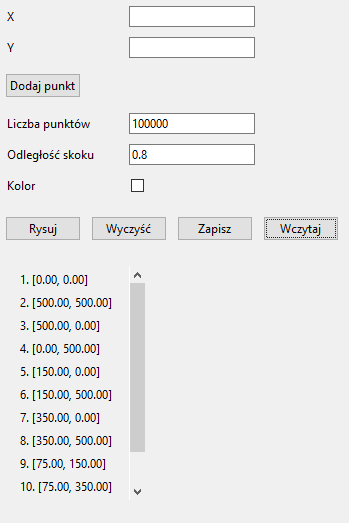
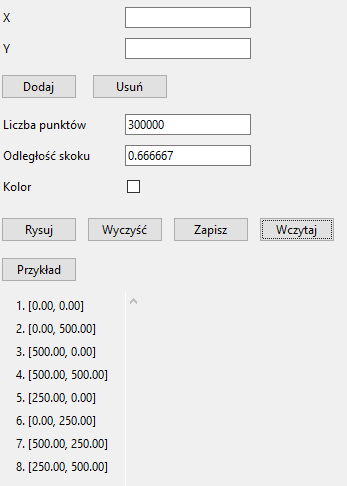
Dodano opcję wczytywania przykłądowych danych

diff --git a/frames/TutorialFrame.py b/frames/TutorialFrame.py
@@ -10,17 +10,9 @@ class TutorialFrame(tk.Frame):
     def __init__(self, parent):
         tk.Frame.__init__(self, parent, width = 1366, height = 768)
 
-        # self.__current_frame : ttk.Frame = None
 
         widgets_frame = ttk.Frame(self)
         buttons_frame = ttk.Frame(widgets_frame)
-        # introduction_frame = ttk.Frame(self)
-        # chaos_game_frame = ttk.Frame(self)
-        # rectangle_frame = ttk.Frame(self)
-        # lsystem_frame = ttk.Frame(self)
-        # ifs_frame = ttk.Frame(self)
-        # mandelbrot_frame = ttk.Frame(self)
-        # julia_frame = ttk.Frame(self)
 
         canvas_frame = ttk.Frame(self)
 
@@ -56,26 +48,13 @@ class TutorialFrame(tk.Frame):
         canvas_frame.pack(side = tk.LEFT, padx = 15)
         self.__canvas.pack(side = tk.LEFT)
 
-        # introduction_frame.pack(side = tk.TOP, anchor = tk.W, padx = 20)
-        # ttk.Label(introduction_frame, text = "Wprowadzenie", font = ('Arial', 30)).pack(pady = 15)
-        # ttk.Label(introduction_frame, text = "Objaśnienie czym jest fraktal")
-
-    # def __packFrame(self, new_frame : ttk.Frame):
-
-    #     if(self.__current_frame != None):
-    #         self.__current_frame.pack_forget()
-    #     elif(self.__current_frame is new_frame):
-    #         return
-    #     new_frame.pack()
-    #     self.__current_frame = new_frame
-
     def __showCanvas(self, frac_name : str):
         self.__canvas.delete('all')
         match(frac_name):
             case 'chaos':
                 self.img = Image.open(resource_path("images/chaos_game.png"))
                 self.img = ImageTk.PhotoImage(self.img)
-                self.__canvas.create_image(200, 280, image = self.img)
+                self.__canvas.create_image(200, 250, image = self.img)
                 self.__canvas.create_text(320, 50, text = "Koordynaty x, y nowego punktu", anchor=tk.W, justify="left")
                 self.__canvas.create_text(320, 135, text = "Liczba punktów które zostaną wyznaczone na obrazie", anchor=tk.W, justify="left")
                 self.__canvas.create_text(320, 170, text = "Odległość pomiędzy losowym wierzchołkiem a poprednim punktem\n" 
@@ -83,30 +62,33 @@ class TutorialFrame(tk.Frame):
                 self.__canvas.create_text(320, 200, text = "Czy obraz ma być pokolorowany", anchor=tk.W, justify="left")
                 self.__canvas.create_text(380, 240, text = "Opcje pozwalające na narysowanie i usunięcie obrazu\n"
                     "a także zapisanie i wczytanie konfiguracji", anchor=tk.W, justify="left")
-                self.__canvas.create_text(220, 300, text = "Lista dodanych punktów,\n mozna ją edytować poprzez kliknięcie wybranej pozycji", anchor=tk.W, justify="left")
+                self.__canvas.create_text(215, 285, text = "Wczytaj przykładowe dane\n", anchor=tk.W, justify="left")
+                self.__canvas.create_text(220, 350, text = "Lista dodanych punktów,\n mozna ją edytować poprzez kliknięcie wybranej pozycji", anchor=tk.W, justify="left")
             case 'ifs':
                 self.img = Image.open(resource_path("images/ifs.png"))
                 self.img = ImageTk.PhotoImage(self.img)
-                self.__canvas.create_image(200, 250, image = self.img)
+                self.__canvas.create_image(200, 255, image = self.img)
                 self.__canvas.create_text(300, 70, text = "Szansa na wylosowanie danej funkcji", anchor=tk.W, justify="left")
                 self.__canvas.create_text(300, 140, text = "Parametry funkcji", anchor=tk.W, justify="left")
                 self.__canvas.create_text(300, 240, text = "Liczba punktów które zostaną wyznaczone na obrazie", anchor=tk.W, justify="left")
                 self.__canvas.create_text(300, 270, text = "Czy obraz ma być pokolorowany", anchor=tk.W, justify="left")
                 self.__canvas.create_text(400, 320, text = "Opcje pozwalające na narysowanie i usunięcie obrazu\n"
                     "a także zapisanie i wczytanie konfiguracji(tj. listy punktów, liczby punktów i odległości skoku)", anchor=tk.W, justify="left")
-                self.__canvas.create_text(300, 400, text = "Lista dodanych funkcji, mozna ją edytować poprzez kliknięcie wybranej pozycji", anchor=tk.W, justify="left")
+                self.__canvas.create_text(215, 370, text = "Wczytaj przykładowe dane\n", anchor=tk.W, justify="left")
+                self.__canvas.create_text(300, 420, text = "Lista dodanych funkcji, mozna ją edytować poprzez kliknięcie wybranej pozycji", anchor=tk.W, justify="left")
             case 'lsys':
                 self.img = Image.open(resource_path("images/lsystem.png"))
                 self.img = ImageTk.PhotoImage(self.img)
-                self.__canvas.create_image(180, 290, image = self.img)
+                self.__canvas.create_image(180, 310, image = self.img)
                 self.__canvas.create_text(320, 120, text = "Dodaj lub edytuj regułę.\nZmienna musi byc jednym znakiem a reguła ciągiem znaków", anchor=tk.W, justify="left")
                 self.__canvas.create_text(300, 200, text = "Parametry algorytmu. Start - startowy ciąg znaków\n"
                     "Kąt obrotu pióra,\nliczba powtórzeń algortymu", anchor=tk.W, justify="left")
                 self.__canvas.create_text(300, 270, text = "Długość rysowanego odcinka")
                 self.__canvas.create_text(320, 320, text = "Rozpocznij lub zatrzymaj rysowanie, wyczyść płótno obrazu", anchor=tk.W, justify="left")
                 self.__canvas.create_text(320, 350, text = "Zapisz lub wczytaj konfigurację, zapisz obraz do pliku", anchor=tk.W, justify="left")
-                self.__canvas.create_text(300, 420, text = "Lista obsługiwanych znaków", anchor=tk.W, justify="left")
-                self.__canvas.create_text(300, 520, text = "Lista dodanych funkcji", anchor=tk.W, justify="left")                          
+                self.__canvas.create_text(320, 395, text = "Wczytaj przykładowe dane\n", anchor=tk.W, justify="left")
+                self.__canvas.create_text(300, 450, text = "Lista obsługiwanych znaków", anchor=tk.W, justify="left")
+                self.__canvas.create_text(300, 570, text = "Lista dodanych funkcji", anchor=tk.W, justify="left")                          
             case 'rect':
                 self.img = Image.open(resource_path("images/rect_ifs.png"))
                 self.img = ImageTk.PhotoImage(self.img)
@@ -117,14 +99,16 @@ class TutorialFrame(tk.Frame):
                     "Poziom kolorowania określający sposób kolorowania elementów obrazu", anchor=tk.W, justify="left")
                 self.__canvas.create_text(430, 200, text = "Obszar roboczy, na którym można dostosowywać\n(tj. przesuwać, obracać, zmieniać rozmiar)"
                     "dodane prostokaty", anchor=tk.W, justify="left")
-                self.__canvas.create_text(350, 570, text = "Opcje pozwalające na narysowanie i usunięcie obrazu\n"
+                self.__canvas.create_text(370, 560, text = "Opcje pozwalające na narysowanie i usunięcie obrazu\n"
                     "a także zapisanie i wczytanie konfiguracji", anchor=tk.W, justify="left")
+                self.__canvas.create_text(215, 590, text = "Wczytaj przykładowe dane\n", anchor=tk.W, justify="left")
             case 'mandelbrot':
                 self.img = Image.open(resource_path("images/mandel_julia.png"))
                 self.img = ImageTk.PhotoImage(self.img)
-                self.__canvas.create_image(120, 100, image = self.img)
+                self.__canvas.create_image(120, 120, image = self.img)
                 self.__canvas.create_text(200, 50, text = "Opcja pozwalająca na wybór zbioru Mandelbrota i zbioru Julii", anchor=tk.W, justify="left")
                 self.__canvas.create_text(200, 100, text = "Parametry zbioru Julii(dowolne liczby zmiennoprzecinkowe)", anchor=tk.W, justify="left")
                 self.__canvas.create_text(215, 160, text = "Narysuj lub usuń obraz\n", anchor=tk.W, justify="left")
+                self.__canvas.create_text(215, 200, text = "Wczytaj przykładowe dane\n", anchor=tk.W, justify="left")
             case _ :
                 pass

diff --git a/frames/ChaosGameFrame.py b/frames/ChaosGameFrame.py
@@ -43,6 +43,7 @@ class ChaosGameFrame(tk.Frame):
         color_frame = ttk.Frame(widgets_frame)
         list_outer_frame = ttk.Frame(widgets_frame)
         list_frame = ttk.Frame(list_outer_frame)
+        example_frame = ttk.Frame(widgets_frame)
 
         canvas_frame = tk.Frame(self)
 
@@ -93,6 +94,9 @@ class ChaosGameFrame(tk.Frame):
         list_canvas.create_window((0, 0), window=list_frame, anchor='nw')
         list_frame.bind("<Configure>", __scroll)
 
+        load_example_button = ttk.Button(example_frame, text = "Przykład",
+            command = lambda: self.__loadExample(plot1, canvas, iterations_entry, jump_entry, list_frame))
+
         ####################################
 
         widgets_frame.pack(side=tk.LEFT, fill='y', anchor = tk.NW, padx=10, pady = 5)
@@ -129,15 +133,8 @@ class ChaosGameFrame(tk.Frame):
         save_button.pack(side = tk.LEFT)
         load_button.pack(side = tk.LEFT, padx = 10)
 
-        # restrictions_frame.pack(side = tk.TOP, fill='x')
-        # ttk.Label(restrictions_frame, text="Ograniczenia (Zwróć uwagę na kolejność dodawania wierzchołków)", wraplength=200).pack(side = tk.TOP, pady = 5, anchor=tk.W)
-        # tk.Radiobutton(restrictions_frame, text="Brak", variable=restriction_choice, value=0, wraplength=200).pack(side = tk.TOP, anchor=tk.W)
-        # tk.Radiobutton(restrictions_frame, text="Następny losowy wierzchołek musi być inny niż poprzedni",
-        #                variable=restriction_choice, value=1, wraplength=200).pack(side = tk.TOP, anchor=tk.W)
-        # tk.Radiobutton(restrictions_frame, text="Następny wierzchołek nie może być poprzednim na liście",
-        #                variable=restriction_choice, value=2, wraplength=200).pack(side = tk.TOP, anchor=tk.W)
-        # tk.Radiobutton(restrictions_frame, text="Następny wierzchołek nie może być oddalony o dwa miejsca na liście od poprzedniego",
-        #                variable=restriction_choice, value=3, wraplength=200).pack(side = tk.TOP, anchor=tk.W)
+        example_frame.pack(side = tk.TOP, fill = "x")
+        load_example_button.pack(side = tk.LEFT, anchor = tk.W)
         
         list_outer_frame.pack(side = tk.TOP, fill = 'x', pady = 10)
         list_canvas.pack(side = tk.LEFT)
@@ -311,3 +308,21 @@ class ChaosGameFrame(tk.Frame):
         self.__point_entry_x.insert(0, "{0:0.2f}".format(self.__points[index][0]))
         self.__point_entry_y.insert(0, "{0:0.2f}".format(self.__points[index][1]))
         self.__changed_index = index
+
+    def __loadExample(self, plot1, canvas, iterLabel, jumpLabel, pointsFrame):
+
+        info = {"points": [[0.0, 0.0], [500.0, 0.0], [250.0, 500.0]], "iterations": 100000, "jump": 0.5}
+
+        self.__points = info['points']
+        self.__refreshPointsList(pointsFrame)
+
+        self.__last_iterations_number = info['iterations']
+        self.__last_jump = info['jump']
+
+        iterLabel.delete(0, tk.END)
+        jumpLabel.delete(0, tk.END)
+        iterLabel.insert(0, str(self.__last_iterations_number))
+        jumpLabel.insert(0, str(self.__last_jump))
+
+        plot(plot1, canvas, vertices=self.__points)
+        self.__fractal_plotted = False

diff --git a/frames/LSystemFrame.py b/frames/LSystemFrame.py
@@ -35,6 +35,8 @@ class LSystemFrame(tk.Frame):
         rule_list_frame = ttk.Frame(widgets_frame)
         info_frame = ttk.Frame(widgets_frame)
 
+        example_frame = ttk.Frame(widgets_frame)
+
         canvas_frame = tk.Frame(self)
 
         button = ttk.Button(back_button_frame, text="Powrót",
@@ -74,7 +76,9 @@ class LSystemFrame(tk.Frame):
         
         self.__image_button = ttk.Button(save_load_frame, text = "Zapisz obraz", 
                                   command = self.__saveImageToFile)
-
+        
+        self.__load_example_button = ttk.Button(example_frame, text = "Przykład", 
+                command = lambda: self.__loadExample(start_entry, angle_entry, rules_label))
         #######################################################
 
         widgets_frame.pack(side=tk.LEFT, fill='y', anchor = tk.NW, padx=10, pady = 10)
@@ -117,6 +121,9 @@ class LSystemFrame(tk.Frame):
         self.__save_button.pack(side = tk.LEFT, anchor = tk.W)
         self.__load_button.pack(side = tk.LEFT, anchor= tk.W, padx = 15)
         self.__image_button.pack(side = tk.LEFT, anchor = tk.W)
+
+        example_frame.pack(side = tk.TOP, fill = "x", pady = 5)
+        self.__load_example_button.pack(side = tk.LEFT, anchor = tk.W)
 
         info_frame.pack(side = tk.TOP, fill = "x", pady = 20)
         ttk.Label(info_frame, text = "F, G - przesuń się i narysuj linię\n" "f - przesuń się\n"
@@ -170,6 +177,7 @@ class LSystemFrame(tk.Frame):
         self.__image_button.configure(state = "disabled")
         self.__stop_button.configure(state = "normal")
         self.__clear_button.configure(state = "disabled")
+        self.__load_example_button.configure(state = "disabled")
         self.__screen.cv.unbind("<Button-1>")
         self.__screen.cv.unbind('<Button-3>')
 
@@ -222,6 +230,7 @@ class LSystemFrame(tk.Frame):
         self.__image_button.configure(state = "normal")
         self.__stop_button.configure(state = "disabled")
         self.__clear_button.configure(state = "normal")
+        self.__load_example_button.configure(state = "normal")
         self.__screen.cv.bind("<Button-1>", self.__onLeftClick)
         self.__screen.cv.bind('<Button-3>', self.__onRightClick)
         self.__turtle.st()
@@ -318,3 +327,18 @@ class LSystemFrame(tk.Frame):
         self.__turtle.ht()
         ImageGrab.grab().crop((x, y, x1, y1)).save(file.name)
         self.__turtle.st()
+
+    def __loadExample(self, startEntry, angleEntry, rulesLabel):
+
+        info = {"rules": {"L": "-RF+LFL+FR-", "R": "+LF-RFR-FL+"}, "start": "LFL+F+LFL", "angle": "90"}
+
+        self.__rules = info['rules']
+        start = info['start']
+        angle = info['angle']
+        startEntry.delete(0, tk.END)
+        angleEntry.delete(0, tk.END)
+        startEntry.insert(0, start)
+        angleEntry.insert(0, str(angle))
+
+
+        self.__refreshRulesLabel(rulesLabel)

diff --git a/frames/IFSFrame.py b/frames/IFSFrame.py
@@ -39,6 +39,7 @@ class IFSFrame(tk.Frame):
         canvas_buttons_frame = ttk.Frame(widgets_frame)
         list_outer_frame = ttk.Frame(widgets_frame)
         color_frame = ttk.Frame(widgets_frame)
+        example_frame = ttk.Frame(widgets_frame)
 
 
         button = ttk.Button(back_button_frame, text="Powrót",
@@ -88,6 +89,9 @@ class IFSFrame(tk.Frame):
 
         color_check = ttk.Checkbutton(color_frame, variable= color_choice)
 
+        load_exanmple_button = ttk.Button(example_frame, text = "Przykład", 
+            command = lambda: self.__loadExample(plot1, canvas, iterations_entry, list_frame))
+
         #########################################
 
         widgets_frame.pack(side=tk.LEFT, fill='y', anchor = tk.NW, padx=10, pady = 5)
@@ -136,6 +140,9 @@ class IFSFrame(tk.Frame):
         clear_button.pack(side = tk.LEFT, padx = 10)
         save_button.pack(side = tk.LEFT)
         load_button.pack(side = tk.LEFT, padx = 10)
+
+        example_frame.pack(side = tk.TOP, fill = 'x')
+        load_exanmple_button.pack(side = tk.LEFT, anchor = tk.W)
 
         list_outer_frame.pack(side = tk.TOP, fill = 'x', pady = 10)
         list_canvas.pack(side = tk.LEFT)
@@ -363,3 +370,21 @@ class IFSFrame(tk.Frame):
         self.__y_entry_2.insert(0, y_transform[1])
         self.__y_entry_3.insert(0, y_transform[2])
         self.__changed_index = index
+
+    def __loadExample(self, plot1, canvas, iterEntry, functionFrame):
+        
+        self.__clearPlot(plot1, canvas, functionFrame, iterEntry)
+
+        info = {"chances": [1.0, 85.0, 7.0, 7.0], 
+                "x_transform": [[0.0, 0.0, 0.0], [0.85, 0.04, 0.0], [0.2, -0.26, 0.0], [-0.15, 0.28, 0.0]], 
+                "y_transform": [[0.0, 0.16, 0.0], [-0.04, 0.85, 1.6], [0.23, 0.22, 1.6], [0.26, 0.24, 0.44]], 
+        "iterations": 100000}
+
+        self.__chances = info['chances']
+        self.__x_transform = info['x_transform']
+        self.__y_transform = info['y_transform']
+        self.__last_iterations_number = info['iterations']
+        self.__refreshFunctionLabel(functionFrame)
+
+        iterEntry.delete(0, tk.END)
+        iterEntry.insert(0, str(self.__last_iterations_number))

diff --git a/frames/RectFrame.py b/frames/RectFrame.py
@@ -31,6 +31,8 @@ class RectFrame(tk.Frame):
         rectangle_frame = ttk.Frame(widgets_frame)
         canvas_buttons_frame = ttk.Frame(widgets_frame)
 
+        example_frame = ttk.Frame(widgets_frame)
+
         button = ttk.Button(back_button_frame, text="Powrót",
                            command=lambda: parent.switch_frame("start"))
 
@@ -69,6 +71,8 @@ class RectFrame(tk.Frame):
 
         clear_button = ttk.Button(canvas_buttons_frame, text = "Wyczyść", command = self.__clearPlot)
 
+        load_example_button = ttk.Button(example_frame, text = "Przykład", command = self.__loadExample)
+
         #########################################
 
         widgets_frame.pack(side=tk.LEFT, fill='y', anchor = tk.NW, padx=10, pady = 10)
@@ -102,6 +106,9 @@ class RectFrame(tk.Frame):
         save_button.pack(side = tk.LEFT, anchor=tk.W, padx = 12)
         load_button.pack(side = tk.LEFT, anchor=tk.W)
         clear_button.pack(side = tk.LEFT, anchor = tk.W, padx = 12)
+
+        example_frame.pack(side = tk.LEFT, fill = "x")
+        load_example_button.pack(side = tk.LEFT, anchor = tk.W)
 
     def __saveConfig(self):
         
@@ -315,3 +322,17 @@ class RectFrame(tk.Frame):
 
     def __clearPlot(self):
         plot(self.__plot1, self.__canvas)
+
+    def __loadExample(self):
+
+        info = {"1": [-12.810950318671843, 150.7512515070591, 93.2487484929409, -18.810950318671857, 262.8109503186718, 87.24874849294093, 156.75125150705904, 256.810950318672], 
+                "27": [184.0, 308.0, 184.0, 108.0, 384.0, 108.0, 384.0, 308.0], 
+                "69": [179.25208095264068, 448.4967409345892, 16.503259065410816, 332.2520809526406, 132.7479190473595, 169.50325906541073, 295.4967409345892, 285.74791904735946]}
+
+        self.__draw_canvas.delete("all")
+        self.__list_of_rectangles.clear()
+        
+            
+        for _, value in info.items():
+            x1, y1, x2, y2, x3, y3, x4, y4 = value
+            self.__createRectangle(x1, y1, x2, y2, x3, y3, x4, y4)

diff --git a/frames/MandelJuliaFrame.py b/frames/MandelJuliaFrame.py
@@ -29,6 +29,7 @@ class MandelJuliaFrame(tk.Frame) :
         entry_label_frame = ttk.Frame(widgets_frame)
         entry_frame = ttk.Frame(widgets_frame)
         canvas_button_frame = ttk.Frame(widgets_frame)
+        example_frame = ttk.Frame(widgets_frame)
 
         button = ttk.Button(widgets_frame, text="Powrót",
                            command=lambda: parent.switch_frame("start"))
@@ -81,6 +82,8 @@ class MandelJuliaFrame(tk.Frame) :
         toolbar.winfo_children()[2].configure(command=newForward)
         toolbar.winfo_children()[7].configure(command=lambda: save_image(self.__plot))
 
+        load_example_button = ttk.Button(example_frame, text = "Przykład", command= lambda : self.__loadExample(c_real_entry, c_imag_entry))
+
         ###########################################################
 
         widgets_frame.pack(side=tk.LEFT, fill='y', anchor = tk.NW, padx=10, pady = 10)
@@ -100,6 +103,9 @@ class MandelJuliaFrame(tk.Frame) :
         canvas_button_frame.pack(side = tk.TOP, pady = 10, fill='x')
         draw_button.pack(side = tk.LEFT, anchor = tk.W)
         clear_button.pack(side = tk.LEFT, anchor = tk.W, padx = 10)
+
+        example_frame.pack(side = tk.TOP, fill = 'x')
+        load_example_button.pack(side = tk.LEFT, anchor = tk.W)
 
         canvas_frame.pack(side=tk.LEFT,anchor=tk.W, pady = 10, padx = (50, 0))
         canvas.get_tk_widget().pack()
@@ -164,4 +170,11 @@ class MandelJuliaFrame(tk.Frame) :
             self.__xmax = 2.0
             self.__ymin = -2.0
             self.__ymax = 2.0
+
+    def __loadExample(self, c_real_entry : ttk.Entry, c_imag_entry : ttk.Entry):
+        c_real_entry.delete(0, tk.END)
+        c_imag_entry.delete(0, tk.END)
+        c_real_entry.insert(0, "0.123") 
+        c_imag_entry.insert(0, "0.7") 
+
 
